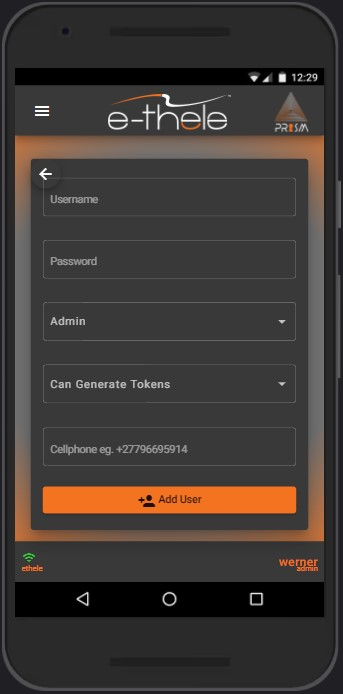
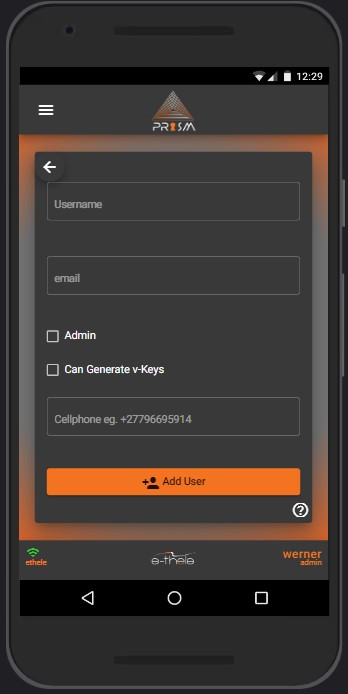
Updated admin side for v-Keys

diff --git a/README.md b/README.md
@@ -57,7 +57,7 @@
 
 # 1. Getting Started <a name="gettingStarted"></a>
 
-Using and Android mobile device, open Chrome browser and navigate to the Prism URL [here](https://app.myprism.co.za)
+Using and Android mobile device, open Chrome browser and navigate to the Prism URL [here](https://prism-v2-df011.web.app)
 
 > **Tip** Install the site to *Home Screen* to use Prism as a *Native App*
 
